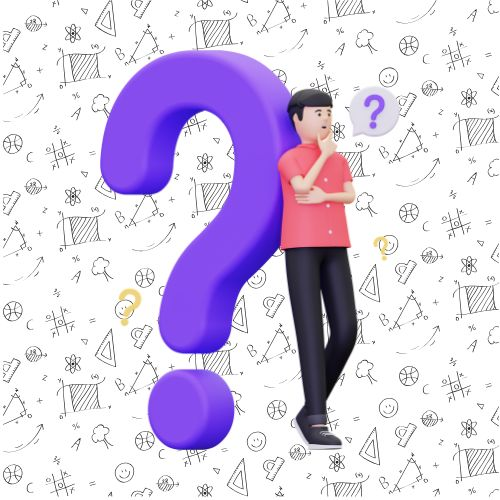
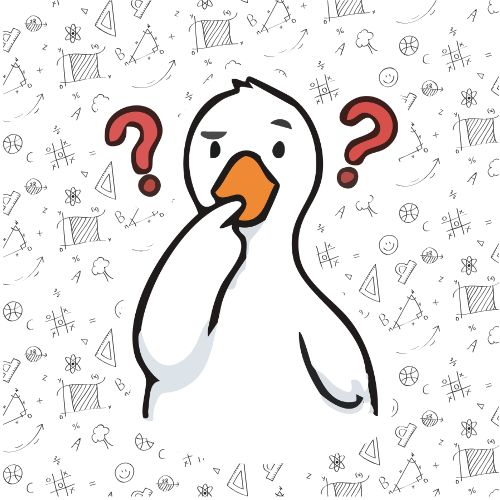
Add Class 3 & 4 demo pages and links
Add new demo pages at src/topics/class3/class3.html and src/topics/class4/class4.html and update index.html card buttons to link to them. Update the card image asset (src/img/card_img.jpg) and include macOS .DS_Store files. The new pages include a Bootstrap navbar/footer and reference local CSS/JS.

Changed region(s): [[0.18, 0.09, 0.81, 0.93], [0.75, 0.45, 0.78, 0.54], [0.48, 0.87, 0.54, 0.9]]

diff --git a/src/topics/class3/class3.html b/src/topics/class3/class3.html
@@ -1,0 +1,60 @@
+<!DOCTYPE html>
+<html lang="en">
+
+<head>
+    <meta charset="UTF-8">
+    <meta name="viewport" content="width=device-width, initial-scale=1.0">
+    <title>Computer Graphics 2026</title>
+    <!-- Link to the CSS file -->
+    <link rel="stylesheet" type="text/css" href="./src/css/style.css">
+    <!-- Link to the JavaScript file -->
+    <script src="./src/js/main.js"></script>
+
+    <link href="https://cdn.jsdelivr.net/npm/bootstrap@5.3.8/dist/css/bootstrap.min.css" rel="stylesheet"
+        integrity="sha384-sRIl4kxILFvY47J16cr9ZwB07vP4J8+LH7qKQnuqkuIAvNWLzeN8tE5YBujZqJLB" crossorigin="anonymous">
+
+</head>
+
+<body>
+    <nav class="navbar navbar-expand-lg bg-body-tertiary">
+        <div class="container-fluid">
+            <a class="navbar-brand" href="../../../index.html">
+                <img src="../../img/logo-usb-cali.png" alt="Logo" width="15%" class="d-inline-block align-text-top">
+            </a>
+            <button class="navbar-toggler" type="button" data-bs-toggle="collapse" data-bs-target="#navbarNav"
+                aria-controls="navbarNav" aria-expanded="false" aria-label="Toggle navigation">
+                <span class="navbar-toggler-icon"></span>
+            </button>
+            <div class="collapse navbar-collapse" id="navbarNav">
+                <ul class="navbar-nav">
+                    <li class="nav-item">
+                        <a class="nav-link active" aria-current="page" href="#">Home</a>
+                    </li>
+                    <li class="nav-item">
+                        <a class="nav-link" href="#">Topics</a>
+                    </li>
+                    <li class="nav-item">
+                        <a class="nav-link" href="#">Other</a>
+                    </li>
+                </ul>
+            </div>
+        </div>
+    </nav>
+
+    <!-- create of content -->
+
+    <footer class="fixed-bottom text-center text-white bg-dark text-lg-start ">
+        <!-- Copyright -->
+        <div class="text-center p-3">
+            © 2026 Copyright: Computer Graphics 2026 - USB Cali
+        </div>
+        <!-- Copyright -->
+    </footer>
+
+    <script src="https://cdn.jsdelivr.net/npm/bootstrap@5.3.8/dist/js/bootstrap.bundle.min.js"
+        integrity="sha384-FKyoEForCGlyvwx9Hj09JcYn3nv7wiPVlz7YYwJrWVcXK/BmnVDxM+D2scQbITxI"
+        crossorigin="anonymous"></script>
+
+</body>
+
+</html>

diff --git a/src/topics/class4/class4.html b/src/topics/class4/class4.html
@@ -1,0 +1,60 @@
+<!DOCTYPE html>
+<html lang="en">
+
+<head>
+    <meta charset="UTF-8">
+    <meta name="viewport" content="width=device-width, initial-scale=1.0">
+    <title>Computer Graphics 2026</title>
+    <!-- Link to the CSS file -->
+    <link rel="stylesheet" type="text/css" href="./src/css/style.css">
+    <!-- Link to the JavaScript file -->
+    <script src="./src/js/main.js"></script>
+
+    <link href="https://cdn.jsdelivr.net/npm/bootstrap@5.3.8/dist/css/bootstrap.min.css" rel="stylesheet"
+        integrity="sha384-sRIl4kxILFvY47J16cr9ZwB07vP4J8+LH7qKQnuqkuIAvNWLzeN8tE5YBujZqJLB" crossorigin="anonymous">
+
+</head>
+
+<body>
+    <nav class="navbar navbar-expand-lg bg-body-tertiary">
+        <div class="container-fluid">
+            <a class="navbar-brand" href="../../../index.html">
+                <img src="../../img/logo-usb-cali.png" alt="Logo" width="15%" class="d-inline-block align-text-top">
+            </a>
+            <button class="navbar-toggler" type="button" data-bs-toggle="collapse" data-bs-target="#navbarNav"
+                aria-controls="navbarNav" aria-expanded="false" aria-label="Toggle navigation">
+                <span class="navbar-toggler-icon"></span>
+            </button>
+            <div class="collapse navbar-collapse" id="navbarNav">
+                <ul class="navbar-nav">
+                    <li class="nav-item">
+                        <a class="nav-link active" aria-current="page" href="#">Home</a>
+                    </li>
+                    <li class="nav-item">
+                        <a class="nav-link" href="#">Topics</a>
+                    </li>
+                    <li class="nav-item">
+                        <a class="nav-link" href="#">Other</a>
+                    </li>
+                </ul>
+            </div>
+        </div>
+    </nav>
+
+    <!-- create of content -->
+
+    <footer class="fixed-bottom text-center text-white bg-dark text-lg-start ">
+        <!-- Copyright -->
+        <div class="text-center p-3">
+            © 2026 Copyright: Computer Graphics 2026 - USB Cali
+        </div>
+        <!-- Copyright -->
+    </footer>
+
+    <script src="https://cdn.jsdelivr.net/npm/bootstrap@5.3.8/dist/js/bootstrap.bundle.min.js"
+        integrity="sha384-FKyoEForCGlyvwx9Hj09JcYn3nv7wiPVlz7YYwJrWVcXK/BmnVDxM+D2scQbITxI"
+        crossorigin="anonymous"></script>
+
+</body>
+
+</html>

diff --git a/index.html b/index.html
@@ -50,7 +50,7 @@
                     <div class="card-body">
                         <h5 class="card-title">Class 3</h5>
                         <p class="card-text">Creatiation Scene ThreeJS</p>
-                        <a href="#" class="btn btn-primary">Go somewhere</a>
+                        <a href="./src/topics/class3/class3.html" class="btn btn-primary">Demo</a>
                     </div>
                 </div>
             </div>
@@ -60,7 +60,7 @@
                     <div class="card-body">
                         <h5 class="card-title">Class 4</h5>
                         <p class="card-text">Advanced ThreeJS Techniques</p>
-                        <a href="#" class="btn btn-primary">Go somewhere</a>
+                        <a href="./src/topics/class4/class4.html" class="btn btn-primary">Demo</a>
                     </div>
                 </div>
             </div>
